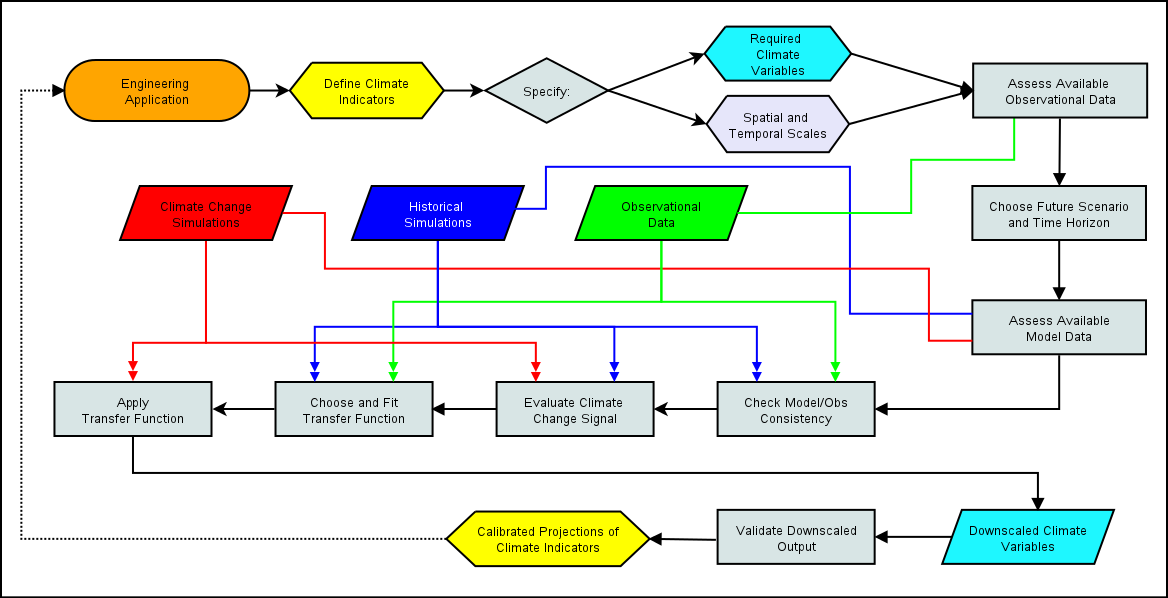
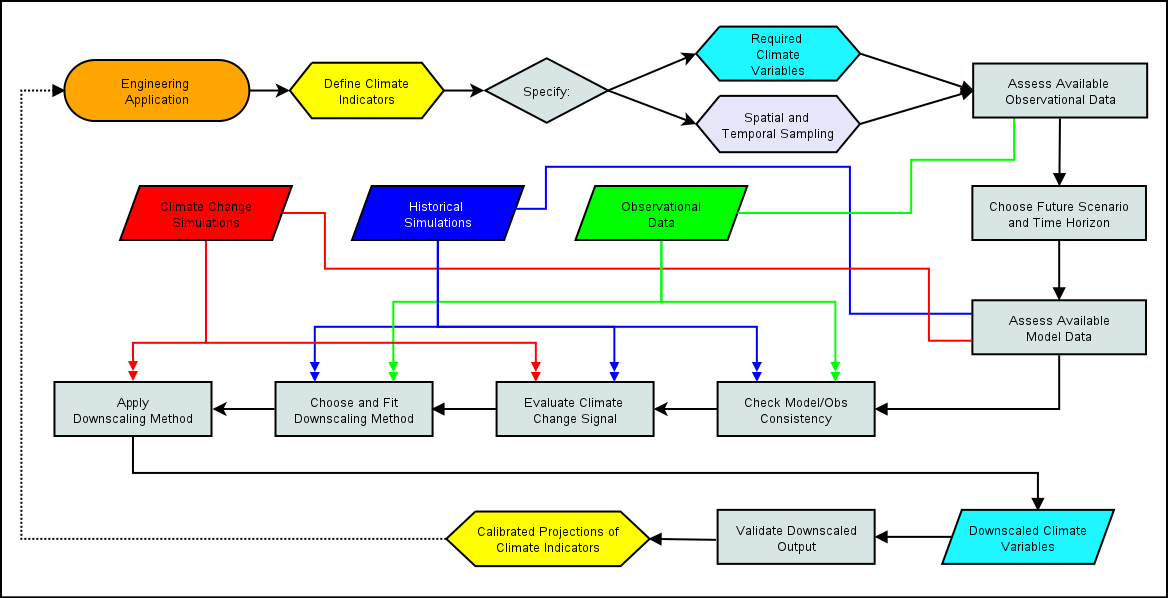
more explanation of flowchart in ch5 intro

diff --git a/Chapter5/chapter5.md b/Chapter5/chapter5.md
@@ -6,10 +6,14 @@ In the previous chapters, you've been introduced to the requisite background cli
 |:--:|
 |*Generic Downscaling Workflow*|
 
-This flowchart includes each of the decisions and analysis steps required to produce calibrated projectections of a climate indicator/index relevant for your domain application (engineering related or otherwise). Each section of this chapter will go through a different decision in detail, explain the factors you'll need to consider, and provide guidance on best practices. Nearly all of the content will connect with information from previous chapters, so if something seems new and unfamiliar, return to the earlier part of this book and you'll likely find what you need to continue with confident understanding.
+This flowchart includes each of the decisions and analysis steps required to produce calibrated projectections of a climate indicator/index relevant for your domain application (engineering related or otherwise). The content of this chapter will go through each decision in detail, explain the factors you'll need to consider, and provide guidance on best practices. Nearly all of the content will connect with information from previous chapters, so if something seems new and unfamiliar, return to the earlier part of this book and you'll likely find what you need to continue with confident understanding.
+
+The first part of the workflow, up to and including "Assess Available Model Data", is about the preliminary study design process. After defining your research topic (e.g. "Engineering Application", though it doesn't necessarily need to be related to engineering), you'll need to define one or more metrics called **climate indicators** (Section 5.1), which relate your domain application to the weather or climate, and are calculated using particular climate variables with particular spatial and temportal samplings. For example, you might want daily maximum temperature data on a 10 km grid. Given these data requirements, you'll need to choose the available observational data product you will use both to establish the baseline values for which you're measuring changes from, and to use as training data for your downscaling. To look at future climate, you'll need to choose the type of climate change scenario you're interested in and how far into the future you'd like to assess changes, and given this information, choose the set of climate model simulations to use for investigating future projections. Only after making these decisions are you ready to tackle your research question and do statistical downscaling.
+
+The second part of the workflow, from "Check Model/Obs Consistency" onwards, is about the data processing and analysis that will produce calibrated climate chnage projections of your climate indicator. You'll need to identify and characterize the model biases you aim to correct through downscaling, and look at the climate change signal in the unadjusted model data, all to inform your choice of downscaling method to apply. Next, you will apply your downscaling method to the output from the climate change simulations to produce downscaled climate variables used as inputs for calculating your climate indicator(s). These downscaled projections of your climate indicator can be used to study your domain application under future climate, and thus feed back into your engineering application - this is why the end of the flowchart points back to the beginning. Another reason why the flowchart loops back to the start is that science is by nature iterative. Very often the results of an analysis don't line up with your initial expectations, and you'll need tweak some aspect of your study design - be it the research question, your climate indicator(s), the datasets used, the chosen future period, or the downscaling method. Of course you will eventually terminate this loop once you're satisfied, and then proceed to interpret your results using your domain expertise and the context of your problem.
 
 **Reinventing the Wheel**
 
-The flowchart for the complete workflow assumes you are interested in produced your own statistically downscaled climate data, for use in your climate impact study. As you work through the first several steps, you may find that this isn't necessary, if downscaled projections of the variables needed to calculate your climate indicators (see Section 5.1) are already available. In Sections 4.4 and 4.5 we worked with downscaled climate data from the Pacific Climate Impacts Consortium ([PCIC](https://pacificclimate.org/data/statistically-downscaled-climate-scenarios)), which provides selected downscaled output from CMIP5 and CMIP6 models, with spatial coverage over Canada. Similar pre-produced downscaled climate data is available from other organizations such as [CarbonPlan](https://carbonplan.org/research/cmip6-downscaling-explainer), [NASA-NEX](https://www.nasa.gov/nex/gddp), and the [Climate Impact Lab](https://planetarycomputer.microsoft.com/dataset/group/cil-gdpcir). If any of these downscaled datasets (or others) suit your needs, it would be sensible to take advantage of them instead of going through the trouble of doing downscaling yourself. 
+The flowchart for the complete workflow assumes you are interested in produced your own statistically downscaled climate data, for use in your climate impact study. As you work through the first several steps, you may find that this isn't necessary, if downscaled projections of the variables needed to calculate your climate indicators (Section 5.1) are already available. In Sections 4.4 and 4.5 we worked with downscaled climate data from the Pacific Climate Impacts Consortium ([PCIC](https://pacificclimate.org/data/statistically-downscaled-climate-scenarios)), which provides selected downscaled output from CMIP5 and CMIP6 models, with spatial coverage over Canada. Similar pre-produced downscaled climate data is available from other organizations such as [CarbonPlan](https://carbonplan.org/research/cmip6-downscaling-explainer), [NASA-NEX](https://www.nasa.gov/nex/gddp), and the [Climate Impact Lab](https://planetarycomputer.microsoft.com/dataset/group/cil-gdpcir). If any of these downscaled datasets (or others) suit your needs, it would be sensible to take advantage of them instead of going through the trouble of doing downscaling yourself. 
 
 If you plan to use an existing downscaled data product, you should still continue reading the rest of this guidebook. As you can see in the workflow schematic, there is much more to a climate impact study than producing downscaled climate data, and many study design decisions need to be made regardless of whether you plan to do your own downscaling or not. The only steps you'll skip are "Choose and Fit Transfer Function" and "Apply Transfer Function". The significance of these steps are not to be diminished, they are indeed a critical part of the downscaling workflow, which is why using an existing downscaled data product that suits your needs can save you significant amount of time and effort. If no publicly available downscaled data meets the requirements of your study, then have no fear, for that's the primary purpose of this guidebook! The information in this chapter will help you carry out the downscaling process.
